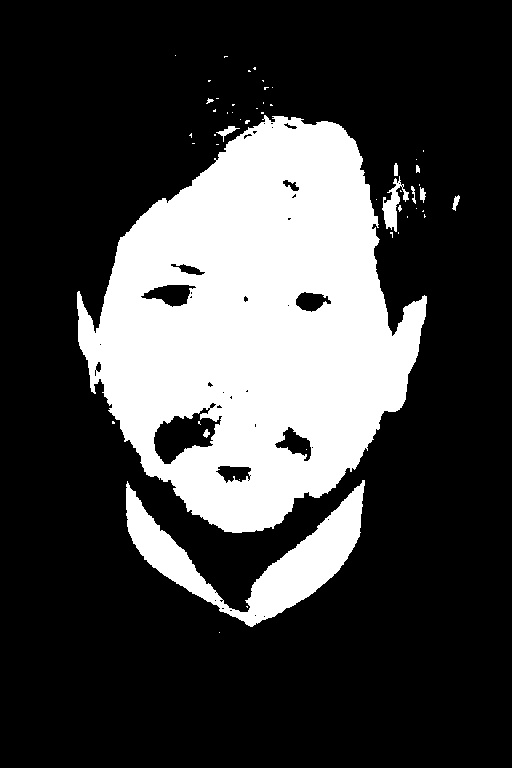
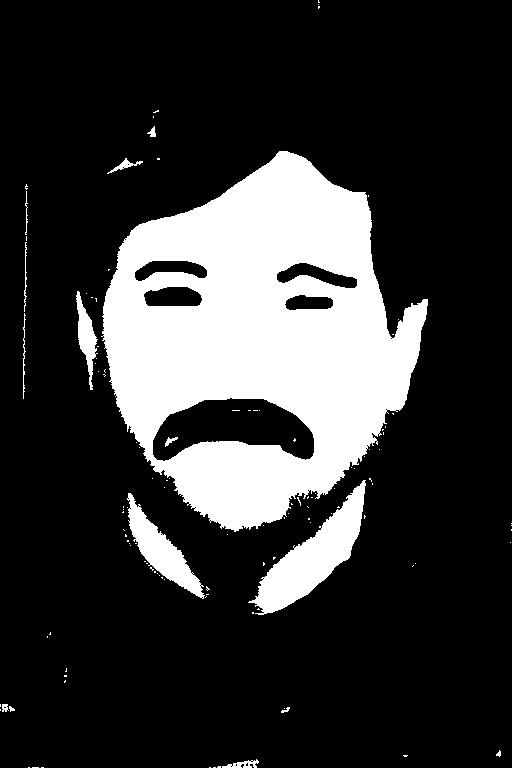
update requisito1

diff --git a/trabalhoRequisito1.py b/trabalhoRequisito1.py
@@ -66,7 +66,6 @@ centers[0, 1] = avg_skin_v
 centers[1, 0] = avg_no_skin_u
 centers[1, 1] = avg_no_skin_v
 
-# criteria = (cv2.TERM_CRITERIA_ESP, 10, 1.0)
 criteria = (cv2.TERM_CRITERIA_MAX_ITER, 10, 1.0)
 flags = cv2.KMEANS_USE_INITIAL_LABELS
 compactness, labels, centers = cv2.kmeans(np.array(z, np.float32), 2, None, criteria, 10, flags, centers)
@@ -89,5 +88,13 @@ for i in range(0, im278_yuv.shape[0]):
     for j in range(0, im278_yuv.shape[1]):
         im278_bw[i, j] = is_skin_color(im278_yuv[i, j], centers)
 
-cv2.imwrite("SkinDataset/GT_bw/243.jpg", im243_bw)
-cv2.imwrite("SkinDataset/GT_bw/278.jpg", im278_bw)
+cv2.imwrite("SkinDataset/GT_bw_results/243.jpg", im243_bw)
+cv2.imwrite("SkinDataset/GT_bw_results/278.jpg", im278_bw)
+
+im_gray = cv2.imread("SkinDataset/GT/243.jpg", 0)
+(thresh, im_bw) = cv2.threshold(im_gray, 8, 255, cv2.THRESH_BINARY)
+cv2.imwrite("SkinDataset/GT_bw/243.jpg", im_bw)
+
+im_gray = cv2.imread("SkinDataset/GT/278.jpg", 0)
+(thresh, im_bw) = cv2.threshold(im_gray, 8, 255, cv2.THRESH_BINARY)
+cv2.imwrite("SkinDataset/GT_bw/278.jpg", im_bw)
